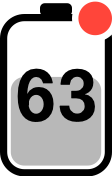
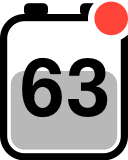
feat: use 16x20 battery with twin terminals and larger digits

diff --git a/Tests/LeanBatteryCoreTests/IconRendererTests.swift b/Tests/LeanBatteryCoreTests/IconRendererTests.swift
@@ -47,8 +47,8 @@ private func render(_ state: BatteryState) throws -> Pixels {
 @Suite struct IconRendererTests {
 	@Test func rendersAtRequestedScale() throws {
 		let image = try #require(IconRenderer.render(IconSpec(state: BatteryState(percent: 57)), foregroundIsWhite: true, scale: 2))
-		#expect(image.width == 28)
-		#expect(image.height == 44)
+		#expect(image.width == 32)
+		#expect(image.height == 40)
 	}
 
 	@Test func bodyStrokeIsForeground() throws {
@@ -60,38 +60,45 @@ private func render(_ state: BatteryState) throws -> Pixels {
 	}
 
 	@Test func foregroundFillIsTranslucent() throws {
-		// (3, 19) is inside the fill, below the number; 28% alpha ≈ 71.
-		let pixel = try render(BatteryState(percent: 50)).at(3, 19)
+		// (3, 17) is inside the fill, below the number; 28% alpha ≈ 71.
+		let pixel = try render(BatteryState(percent: 50)).at(3, 17)
 		#expect((60...85).contains(pixel[3]))
 	}
 
 	@Test func chargingFillIsTranslucentGreen() throws {
 		// 60% alpha ≈ 153; premultiplied green channel dominates.
-		let pixel = try render(BatteryState(percent: 50, isCharging: true, isPluggedIn: true)).at(3, 19)
+		let pixel = try render(BatteryState(percent: 50, isCharging: true, isPluggedIn: true)).at(3, 17)
 		#expect((140...165).contains(pixel[3]))
 		#expect(pixel[1] > pixel[0] && pixel[1] > pixel[2])
 	}
 
 	@Test func numberIsSolidOverFillWithoutGaps() throws {
 		// At 88% the whole glyph area is inside the fill: digits solid white, nothing cut out.
-		let glyphArea = try render(BatteryState(percent: 88)).region(x: 3.5...10.5, y: 9...15)
+		let glyphArea = try render(BatteryState(percent: 88)).region(x: 2.5...13.5, y: 7...15)
 		#expect(glyphArea.contains { $0 == [255, 255, 255, 255] })
 		#expect(!glyphArea.contains { $0[3] == 0 })
 	}
 
 	@Test func plugIsSolidInsideFill() throws {
-		// (7, 15.0) is on the plug's cord, below where a "100" would sit.
-		#expect(try render(BatteryState(percent: 100, isPluggedIn: true)).at(7, 15.0) == [255, 255, 255, 255])
-		#expect(try render(BatteryState(percent: 100)).at(7, 15.0)[3] < 255)
+		// (8, 14.0) is on the plug's cord, below where a "100" would sit.
+		#expect(try render(BatteryState(percent: 100, isPluggedIn: true)).at(8, 14.0) == [255, 255, 255, 255])
+		#expect(try render(BatteryState(percent: 100)).at(8, 14.0)[3] < 255)
 	}
 
 	@Test func hotBadgeIsRedWithTransparentRing() throws {
 		let hot = try render(BatteryState(percent: 57, isHot: true))
-		let badge = hot.at(11.9, 2.3)
+		let badge = hot.at(13.9, 2.3)
 		#expect(badge[0] > 220 && badge[1] < 100 && badge[3] == 255)
-		// (13.3, 4.3) is on the body's rounded corner stroke, 2.4–2.7pt from the badge center: inside the cleared ring.
-		#expect(hot.at(13.3, 4.3)[3] == 0)
-		#expect(try render(BatteryState(percent: 57)).at(13.3, 4.3)[3] == 255)
+		// (15.3, 4.3) is on the body's rounded corner stroke, inside the cleared ring.
+		#expect(hot.at(15.3, 4.3)[3] == 0)
+		#expect(try render(BatteryState(percent: 57)).at(15.3, 4.3)[3] == 255)
+	}
+
+	@Test func twoTopTerminalsHaveATransparentGap() throws {
+		let pixels = try render(BatteryState(percent: 57))
+		#expect(pixels.at(4.5, 1) == [255, 255, 255, 255])
+		#expect(pixels.at(11.5, 1) == [255, 255, 255, 255])
+		#expect(pixels.at(8, 1)[3] == 0)
 	}
 
 	@Test(arguments: 0...100)
@@ -101,12 +108,13 @@ private func render(_ state: BatteryState) throws -> Pixels {
 		let line = IconRenderer.numberLine(value: percent, font: font)
 		let width = CTLineGetTypographicBounds(line, nil, nil, nil)
 		#expect(width <= IconRenderer.inner.width)
+		#expect(CTFontGetCapHeight(font) <= IconRenderer.inner.height)
 	}
 
 	@Test(arguments: [1.0, 2.0])
-	func preservesNativeHeightAtEachScale(scale: Double) throws {
+	func rendersNewDimensionsAtEachScale(scale: Double) throws {
 		let image = try #require(IconRenderer.render(IconSpec(state: BatteryState(percent: 100)), foregroundIsWhite: true, scale: scale))
-		#expect(image.width == Int(14 * scale))
-		#expect(image.height == Int(22 * scale))
+		#expect(image.width == Int(16 * scale))
+		#expect(image.height == Int(20 * scale))
 	}
 }

diff --git a/Tests/LeanBatteryCoreTests/PillStyleTests.swift b/Tests/LeanBatteryCoreTests/PillStyleTests.swift
@@ -7,8 +7,8 @@ import Testing
 		#expect(metrics.height == 46)
 		#expect(metrics.minimumWidth == 240)
 		#expect(metrics.maximumWidth == 400)
-		#expect(metrics.iconWidth == 14)
-		#expect(metrics.iconHeight == 22)
+		#expect(metrics.iconWidth == 16)
+		#expect(metrics.iconHeight == 20)
 		#expect(metrics.titleFontSize == 13)
 		#expect(metrics.detailFontSize == 11.5)
 		#expect(metrics.horizontalPadding == 22)
@@ -23,26 +23,26 @@ import Testing
 		let large = PillMetrics(style: .large)
 		#expect(small.height == 46 * 0.85)
 		#expect(small.titleFontSize == 13 * 0.85)
-		#expect(small.iconHeight == 22 * 0.85)
+		#expect(small.iconHeight == 20 * 0.85)
 		#expect(small.minimumWidth == 240 * 0.85)
 		#expect(large.height == 46 * 1.2)
 		#expect(large.titleFontSize == 13 * 1.2)
-		// Large grows the text and the box but not the glyph: 14 x 22 pt is as large as it renders crisply.
-		#expect(large.iconHeight == 22)
+		// Large grows the text and the box but not the glyph: 16 x 20 pt is as large as it renders crisply.
+		#expect(large.iconHeight == 20)
 		#expect(large.maximumWidth == 400 * 1.2)
 	}
 
 	@Test func iconIsNeverDrawnLargerThanTheGlyphIsRendered() {
-		// IconRenderer draws 14 x 22 pt at 1x and 2x; anything wider is an upscale of that bitmap.
+		// IconRenderer draws 16 x 20 pt at 1x and 2x; anything wider is an upscale of that bitmap.
 		for style in PillStyle.allCases {
-			#expect(PillMetrics(style: style).iconWidth <= 14)
+			#expect(PillMetrics(style: style).iconWidth <= 16)
 		}
 	}
 
-	@Test func iconKeepsItsFourteenToTwentyTwoAspectAtEverySize() {
+	@Test func iconKeepsItsSixteenToTwentyAspectAtEverySize() {
 		for style in PillStyle.allCases {
 			let metrics = PillMetrics(style: style)
-			#expect(abs(metrics.iconWidth / metrics.iconHeight - 14.0 / 22.0) < 0.000001)
+			#expect(abs(metrics.iconWidth / metrics.iconHeight - 16.0 / 20.0) < 0.000001)
 		}
 	}
 

diff --git a/Sources/LeanBatteryCore/IconRenderer.swift b/Sources/LeanBatteryCore/IconRenderer.swift
@@ -5,13 +5,16 @@ import Foundation
 /// Draws the upright battery icon (spec §4.1) into a transparent bitmap.
 public enum IconRenderer {
 	/// Icon canvas in points.
-	public static let size = CGSize(width: 14, height: 22)
+	public static let size = CGSize(width: 16, height: 20)
 
-	private static let cap = CGRect(x: 5.0, y: 0.4, width: 4.0, height: 1.6)
-	private static let body = CGRect(x: 0.45, y: 2.2, width: 13.1, height: 19.4)
+	private static let terminals = [
+		CGRect(x: 3.0, y: 0.4, width: 3.0, height: 1.6),
+		CGRect(x: 10.0, y: 0.4, width: 3.0, height: 1.6),
+	]
+	private static let body = CGRect(x: 0.45, y: 2.2, width: 15.1, height: 17.4)
 	private static let bodyStrokeWidth = 0.9
-	static let inner = CGRect(x: 1.35, y: 3.1, width: 11.3, height: 17.6)
-	private static let badgeCenter = CGPoint(x: 11.9, y: 2.3)
+	static let inner = CGRect(x: 1.35, y: 3.1, width: 13.3, height: 15.6)
+	private static let badgeCenter = CGPoint(x: 13.9, y: 2.3)
 	/// Fill opacities: soft enough that a solid glyph drawn on top stays readable.
 	private static let foregroundFillAlpha = 0.28
 	private static let colorFillAlpha = 0.6
@@ -38,10 +41,12 @@ public enum IconRenderer {
 		return context.makeImage()
 	}
 
-	/// Draws into a context whose user space is 14 × 22 pt with a top-left origin.
+	/// Draws into a context whose user space is 16 × 20 pt with a top-left origin.
 	static func draw(_ spec: IconSpec, foreground: CGColor, in context: CGContext) {
 		context.setFillColor(foreground)
-		context.addPath(roundedRect(cap, radius: 0.6))
+		for terminal in terminals {
+			context.addPath(roundedRect(terminal, radius: 0.6))
+		}
 		context.fillPath()
 
 		context.setStrokeColor(foreground)

diff --git a/Sources/LeanBatteryCore/PillStyle.swift b/Sources/LeanBatteryCore/PillStyle.swift
@@ -43,7 +43,7 @@ public struct PillMetrics: Equatable, Sendable {
 	public var minimumWidth: Double
 	/// Widest the body may grow before its text truncates.
 	public var maximumWidth: Double
-	/// Battery glyph width; the glyph is always twice as tall as it is wide.
+	/// Battery glyph width, preserving the renderer's aspect ratio.
 	public var iconWidth: Double
 	/// Battery glyph height.
 	public var iconHeight: Double
@@ -101,7 +101,7 @@ public struct PillMetrics: Equatable, Sendable {
 		height = 46 * scale
 		minimumWidth = 240 * scale
 		maximumWidth = 400 * scale
-		// The glyph is rendered at 14 x 22 pt (1x and 2x), so drawing it any larger upscales that bitmap
+		// The glyph is rendered at 16 x 20 pt (1x and 2x), so drawing it any larger upscales that bitmap
 		// and softens it. Small shrinks it; Large keeps it at native size and grows only the text and box.
 		iconWidth = Double(IconRenderer.size.width) * min(scale, 1)
 		iconHeight = Double(IconRenderer.size.height) * min(scale, 1)

diff --git a/Tests/LeanBatteryCoreTests/IconSpecTests.swift b/Tests/LeanBatteryCoreTests/IconSpecTests.swift
@@ -8,7 +8,7 @@ import Testing
 		#expect(spec.glyph == .number(57))
 		#expect(spec.fillFraction == 0.57)
 		#expect(!spec.showsHotBadge)
-		#expect(spec.numberFontSize == 9.0)
+		#expect(spec.numberFontSize == 10.0)
 	}
 
 	@Test(arguments: [(20, IconSpec.Fill.low), (21, IconSpec.Fill.foreground), (1, IconSpec.Fill.low)])
@@ -34,7 +34,7 @@ import Testing
 	}
 
 	@Test func fullUsesSmallerFont() {
-		#expect(IconSpec(state: BatteryState(percent: 100)).numberFontSize == 6.6)
+		#expect(IconSpec(state: BatteryState(percent: 100)).numberFontSize == 8.0)
 	}
 
 	@Test func hotShowsBadge() {

diff --git a/Sources/LeanBatteryCore/IconSpec.swift b/Sources/LeanBatteryCore/IconSpec.swift
@@ -39,8 +39,8 @@ public struct IconSpec: Equatable, Sendable {
 		showsHotBadge = state.isHot
 	}
 
-	/// Point size of the number glyph; smaller for three broader digits so "100" fits the 11.3pt interior.
+	/// Point size of the number glyph; smaller for three digits so "100" fits the 13.3pt interior.
 	public var numberFontSize: Double {
-		glyph == .number(100) ? 6.6 : 9.0
+		glyph == .number(100) ? 8.0 : 10.0
 	}
 }

diff --git a/README.md b/README.md
@@ -3,7 +3,7 @@
 
 > **A battery indicator that doesn't hog your menubar.**
 >
-> A native macOS menubar app that shows battery level and charging state in a 14-point-wide upright battery — with a popover for per-app energy use and battery health.
+> A native macOS menubar app that shows battery level and charging state in a 16-point-wide upright battery, with a popover for per-app energy use and battery health.
 >
 > **<0.1% CPU and 0 idle wakeups** while it sits in your menubar. Measured, not claimed — [see the numbers](#efficiency-measured).
 
@@ -17,7 +17,7 @@
 
 ## Wider-icon fork
 
-This fork widens the battery artwork from 11 × 22 pt to **14 × 22 pt**, keeping its height unchanged. The percentage uses SF semibold condensed instead of compressed, so the digits are broader without increasing their height. Every percentage from 0 through 100 is checked against the actual 11.3 pt drawing interior. Notification battery icons keep the same proportions.
+This fork changes the battery artwork from 11 × 22 pt to **16 × 20 pt**, with two top terminals instead of a single cap. The shorter icon sits closer to other menubar icons in height. Percentages use 10 pt SF semibold condensed, or 8 pt for `100`, up from 9 pt and 6.6 pt in the earlier 14 × 22 pt version. Every percentage from 0 through 100 is checked against the 13.3 pt drawing interior. Notification battery icons keep the same proportions.
 
 The monitoring logic, permissions and update checker are unchanged. Update notices still refer to upstream releases, not builds of this fork. The performance measurements below are upstream's measurements; they have not been repeated for this fork.
 
@@ -41,7 +41,7 @@ Or [download the latest zip](https://github.com/manustays/lean-battery/releases/
 
 The macOS battery icon with a percentage is wide, and on a notched MacBook menubar space is scarce. Many third-party battery apps are wider still, and many poll the system constantly.
 
-**LeanBattery** turns the battery upright: the charge level, charging plug, Low Power Mode and a high-temperature warning all fit in a 14-point-wide icon. It does no polling for battery state — it redraws only when macOS reports a change.
+**LeanBattery** turns the battery upright: the charge level, charging plug, Low Power Mode and a high-temperature warning all fit in a 16-point-wide icon. It does no polling for battery state — it redraws only when macOS reports a change.
 
 ## Efficiency, measured
 
@@ -81,7 +81,7 @@ Numbers are one machine and one configuration; yours will differ. The full metho
 
 **In the menubar (available now)**
 
-- **Upright battery icon, 14 pt wide** with the charge % inside.
+- **Upright battery icon, 16 × 20 pt** with two top terminals and the charge % inside.
 - **Charging at a glance** — a plug replaces the number while on power; green fill while charging.
 - **Low Power Mode** shown as a yellow fill; **low battery** (≤ 20%) as red.
 - **High-temperature badge** — a red dot when the battery reaches your threshold (default 40 °C).

diff --git a/docs/menubar-icon.md b/docs/menubar-icon.md
@@ -1,23 +1,23 @@
 # Menubar Icon
 
-LeanBattery's menubar item in this fork is an upright battery, 14 × 22 pt, drawn in code (no image assets).
+LeanBattery's menubar item in this fork is an upright battery, 16 × 20 pt, with two top terminals. Core Graphics draws the outline, translucent fill and plug; Core Text draws the percentage. The app renders these into 1× and 2× images for macOS, rather than loading a fixed icon asset.
 
 ## States
 
 | State | Inside the battery | Fill |
 |---|---|---|
-| On battery | charge % (9pt SF semibold condensed; 6.6pt at 100) | white/black per menubar at 28% opacity, red at ≤ 20% |
+| On battery | charge % (10pt SF semibold condensed; 8pt at 100) | white/black per menubar at 28% opacity, red at ≤ 20% |
 | Charging | plug | green `#30D158` at 60% opacity |
 | Plugged in, not charging | plug | white/black per menubar at 28% opacity |
 | Low Power Mode | % (plug if plugged in) | yellow `#FFD60A` at 60% opacity (wins over other colors) |
 | Temperature ≥ threshold | unchanged | unchanged + red dot top-right |
 | No battery data (desktop Mac, or before macOS reports power at login) | "—" text instead of the battery | — |
 
-The fill is translucent and the % or plug is always drawn in one solid color (white on a dark menubar, black on a light one) on top of it, so digits stay whole and readable at any charge level. Digits use SF semibold condensed to make use of the wider 11.3pt interior. Text-layout tests verify that all percentages from 0 through 100 fit.
+The fill is translucent and the % or plug is always drawn in one solid color (white on a dark menubar, black on a light one) on top of it, so digits stay whole and readable at any charge level. Digits use SF semibold condensed to make use of the wider 13.3pt interior. Text-layout tests verify that all percentages from 0 through 100 fit horizontally and vertically.
 
 ## Sample images
 
-`docs/assets/menubar-*.png` are transparent 112 × 176 px renders (8× the 14 × 22 pt icon) for use in the README or on the web. Each stage has a dark-menubar version (white outline) and a `-light` version (black outline) for light backgrounds.
+`docs/assets/menubar-*.png` are transparent 128 × 160 px renders (8× the 16 × 20 pt icon) for use in the README or on the web. Each stage has a dark-menubar version (white outline) and a `-light` version (black outline) for light backgrounds.
 
 | Stage | Dark background | Light background |
 |---|---|---|

diff --git a/docs/notifications.md b/docs/notifications.md
@@ -28,7 +28,7 @@ Four choices for how the pill is drawn:
 |---|---|
 | Small | The default capsule at 0.85× — text, icon, padding and width all scale together |
 
-Title and detail are centred, with the icon and text set in from the body's edges. The battery glyph is rendered at 14 × 22 pt, so that is the largest it is ever drawn: Small shrinks it, and Large grows the text and the box but leaves the glyph at native size rather than upscaling a bitmap.
+Title and detail are centred, with the icon and text set in from the body's edges. The battery glyph is rendered at 16 × 20 pt, so that is the largest it is ever drawn: Small shrinks it, and Large grows the text and the box but leaves the glyph at native size rather than upscaling a bitmap.
 
 | Default | The standard floating capsule |
 | Large | The same capsule at 1.2× |
